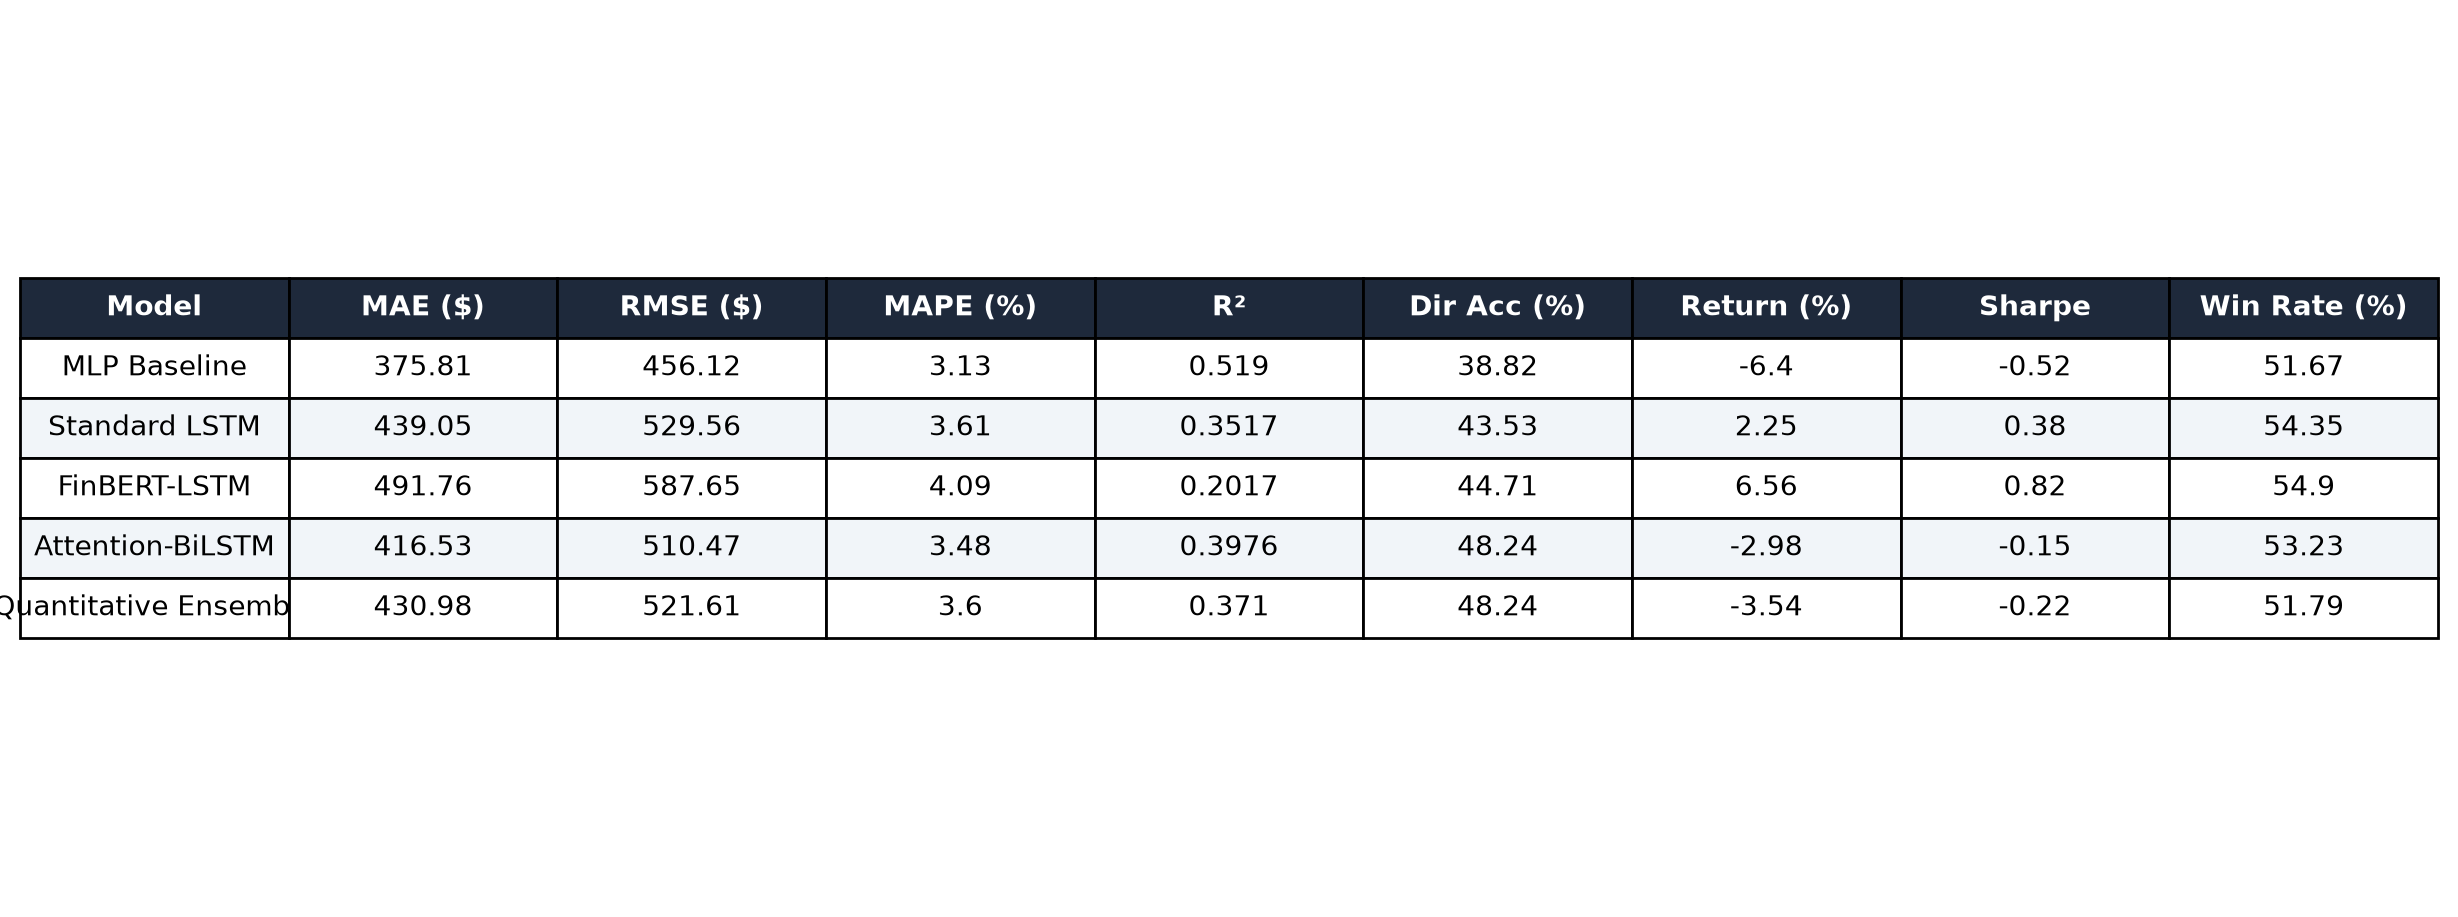
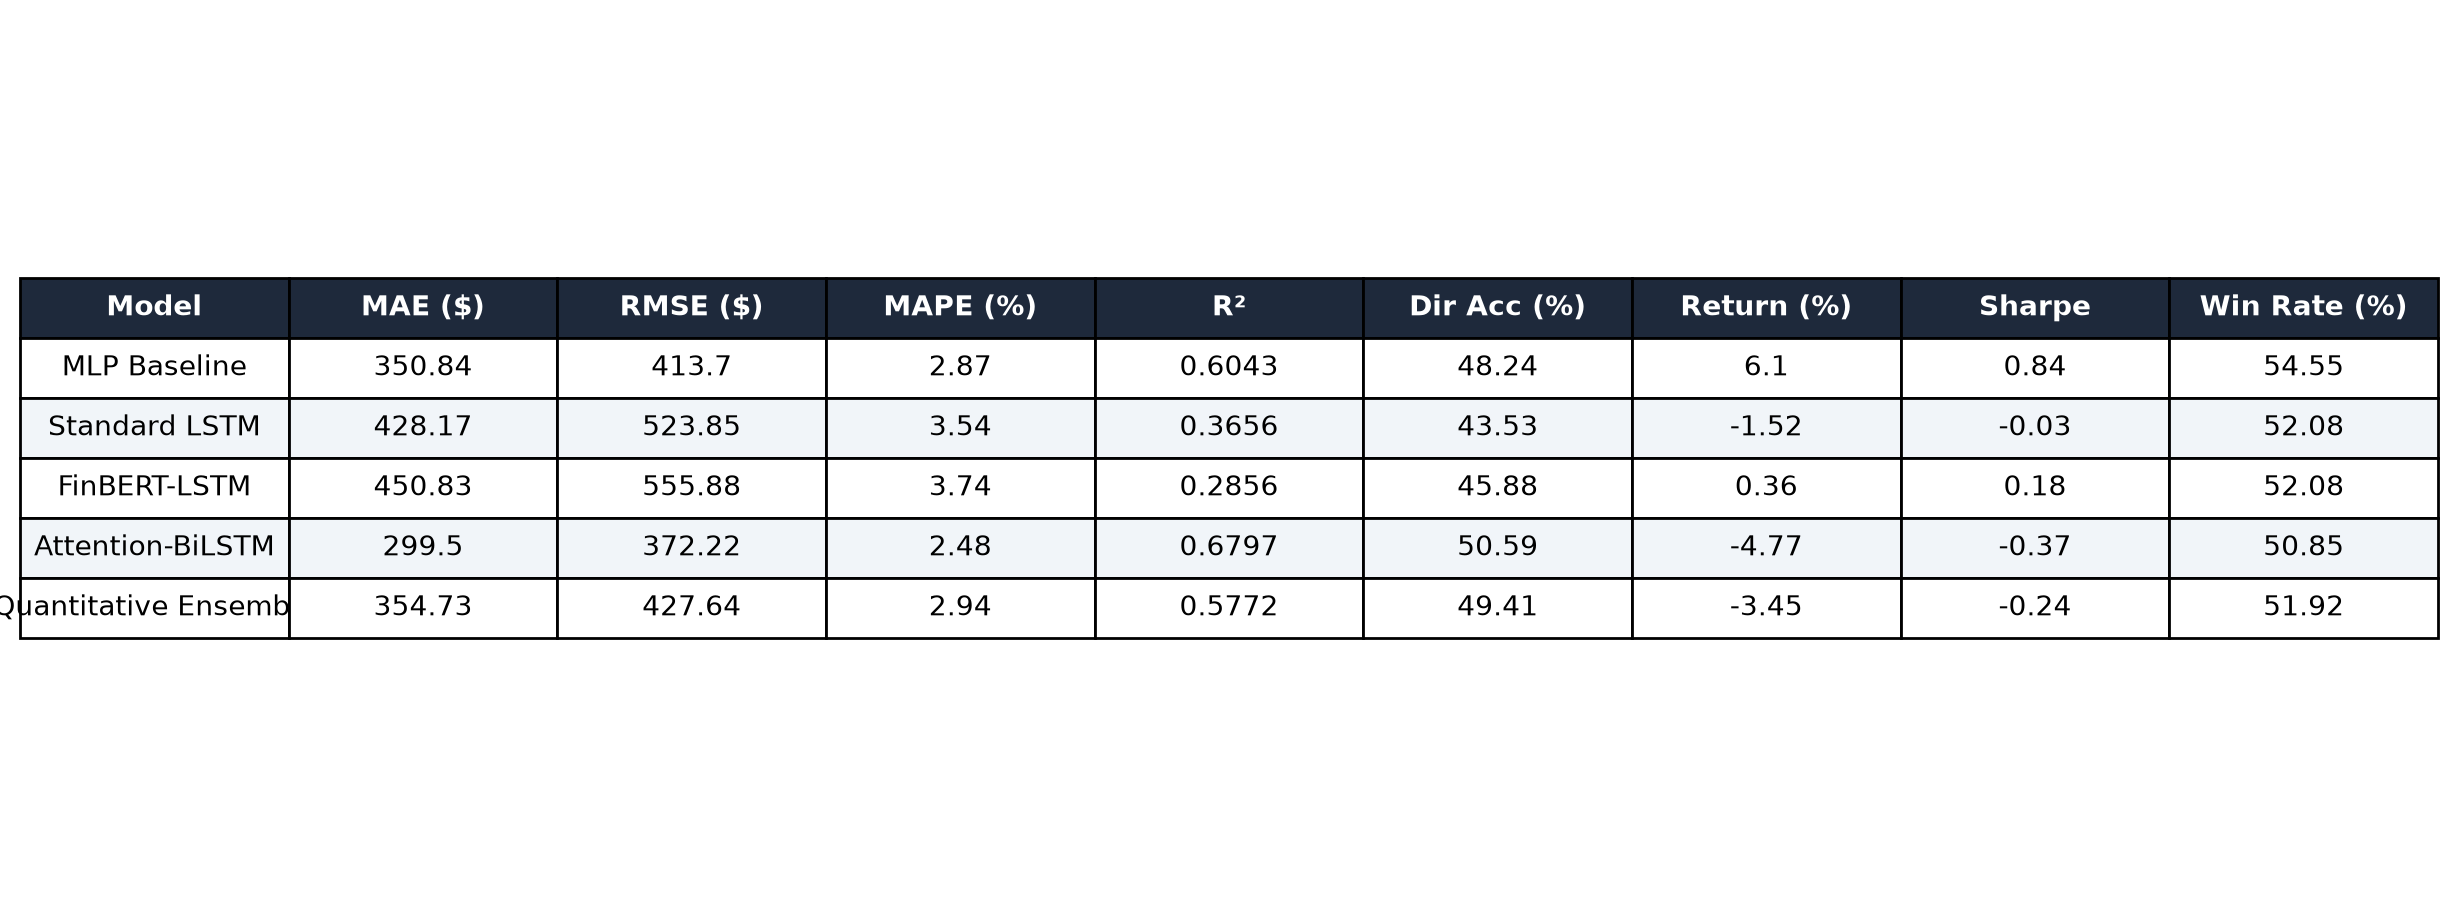
fix(eval): align TemporalAttentionLayer with Model 4 checkpoint and update unified benchmark results

diff --git a/src/evaluate_all_models.py b/src/evaluate_all_models.py
@@ -50,23 +50,36 @@ class TemporalAttentionLayer(layers.Layer):
         super(TemporalAttentionLayer, self).__init__(**kwargs)
 
     def build(self, input_shape):
+        hidden_dim = input_shape[-1]
         self.W = self.add_weight(
-            name='attention_weight', shape=(input_shape[-1], 1),
-            initializer='glorot_uniform', trainable=True
+            name="attention_weight",
+            shape=(hidden_dim, hidden_dim),
+            initializer="glorot_uniform",
+            trainable=True
         )
         self.b = self.add_weight(
-            name='attention_bias', shape=(input_shape[1], 1),
-            initializer='zeros', trainable=True
+            name="attention_bias",
+            shape=(hidden_dim,),
+            initializer="zeros",
+            trainable=True
+        )
+        self.v = self.add_weight(
+            name="context_vector",
+            shape=(hidden_dim, 1),
+            initializer="glorot_uniform",
+            trainable=True
         )
         super(TemporalAttentionLayer, self).build(input_shape)
 
-    def call(self, x):
-        e = tf.tanh(tf.matmul(x, self.W) + self.b)
-        a = tf.nn.softmax(e, axis=1)
-        return tf.reduce_sum(x * a, axis=1)
+    def call(self, inputs):
+        score = tf.tanh(tf.tensordot(inputs, self.W, axes=1) + self.b)
+        score = tf.tensordot(score, self.v, axes=[-1, 0])
+        attention_weights = tf.nn.softmax(score, axis=1)
+        context = tf.reduce_sum(inputs * attention_weights, axis=1)
+        return context, attention_weights
 
-    def compute_output_shape(self, input_shape):
-        return (input_shape[0], input_shape[-1])
+    def get_config(self):
+        return super(TemporalAttentionLayer, self).get_config()
 
 
 STOCK_PATH = os.path.join(PROJECT_ROOT, 'data', 'raw', 'stock_price.csv')

diff --git a/api/app.py b/api/app.py
@@ -41,23 +41,36 @@ class TemporalAttentionLayer(layers.Layer):
         super(TemporalAttentionLayer, self).__init__(**kwargs)
 
     def build(self, input_shape):
+        hidden_dim = input_shape[-1]
         self.W = self.add_weight(
-            name='attention_weight', shape=(input_shape[-1], 1),
-            initializer='glorot_uniform', trainable=True
+            name="attention_weight",
+            shape=(hidden_dim, hidden_dim),
+            initializer="glorot_uniform",
+            trainable=True
         )
         self.b = self.add_weight(
-            name='attention_bias', shape=(input_shape[1], 1),
-            initializer='zeros', trainable=True
+            name="attention_bias",
+            shape=(hidden_dim,),
+            initializer="zeros",
+            trainable=True
+        )
+        self.v = self.add_weight(
+            name="context_vector",
+            shape=(hidden_dim, 1),
+            initializer="glorot_uniform",
+            trainable=True
         )
         super(TemporalAttentionLayer, self).build(input_shape)
 
-    def call(self, x):
-        e = tf.tanh(tf.matmul(x, self.W) + self.b)
-        a = tf.nn.softmax(e, axis=1)
-        return tf.reduce_sum(x * a, axis=1)
+    def call(self, inputs):
+        score = tf.tanh(tf.tensordot(inputs, self.W, axes=1) + self.b)
+        score = tf.tensordot(score, self.v, axes=[-1, 0])
+        attention_weights = tf.nn.softmax(score, axis=1)
+        context = tf.reduce_sum(inputs * attention_weights, axis=1)
+        return context, attention_weights
 
-    def compute_output_shape(self, input_shape):
-        return (input_shape[0], input_shape[-1])
+    def get_config(self):
+        return super(TemporalAttentionLayer, self).get_config()
 
 
 @keras.utils.register_keras_serializable()
